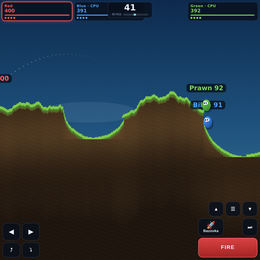
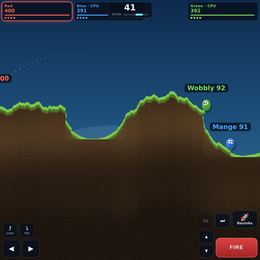
Worms: fix weapon overlay dismissing itself, rework the mobile deck
Three UI faults reported from real play.

The weapon overlay shut the instant it opened. It was opened on pointerdown,
which put a full-screen overlay under the finger, so the click that ended the
same tap landed on its backdrop and the dismiss handler fired. Opens on click
now, and backdrop dismissals and cell selections both ignore anything arriving
within 350ms of the open, so no single tap can open and close it.

The ninja rope could not be let go of. The mechanism was never broken — the
jump button released it all along — but nothing on screen said so: the button
reads "jump", and the tip that mentioned it faded after two seconds. While a
rope, jet pack or parachute is flying the worm, the deck now changes to match:
the jump key is relabelled "let go" and highlighted, and a strip above the
buttons spells out what the arrows do (and the jet pack's remaining fuel).
The strip is anchored to the top edge of the button row rather than to a pixel
offset, so it cannot land on the buttons and showing it does not nudge them.

The mobile layout put the aim keys top-right, far from any thumb and grouped
with the menu and skip keys, which are discrete controls rather than continuous
ones. The deck is now two clusters: everything continuous sits on the bottom
row where thumbs rest (walk bottom-left, aim immediately beside FIRE), and
everything discrete sits on the row above. Jump and backflip carry text labels.
[…]

diff --git a/games/worms.html b/games/worms.html
@@ -55,7 +55,7 @@
             touch-action: none
         }
 
-        .hidden {
+        .hidden, [hidden] {
             display: none !important
         }
 
@@ -233,14 +233,38 @@
             bottom: 0;
             padding: 0 calc(8px + var(--safeL)) calc(8px + var(--safeB)) calc(8px + var(--safeR));
             display: flex;
-            align-items: flex-end;
-            justify-content: space-between;
-            gap: 10px;
+            flex-direction: column;
+            align-items: center;
+            gap: 7px;
             z-index: 21;
             pointer-events: none
         }
 
-        #deck > * {
+        #deckRow {
+            position: relative;
+            width: 100%;
+            display: flex;
+            align-items: flex-end;
+            justify-content: space-between;
+            gap: 10px
+        }
+
+        /* Anchored to the top edge of the button row rather than to a pixel
+           offset from the screen bottom: the strip can then never land on the
+           buttons, and showing it never nudges them. */
+        #deckTop {
+            position: absolute;
+            bottom: calc(100% + 7px);
+            left: 0;
+            right: 0;
+            display: flex;
+            flex-direction: column;
+            align-items: center;
+            gap: 6px;
+            pointer-events: none
+        }
+
+        #deckRow .pad {
             pointer-events: auto
         }
 
@@ -282,18 +306,60 @@
             pointer-events: none
         }
 
-        #movePad {
-            grid-template-columns: repeat(2, auto)
+        /* Two thumb clusters. Everything continuous (walk, aim) sits on the
+           bottom row where the thumbs actually rest; everything discrete
+           (weapon, fuse, skip) sits on the row above, out of the way. */
+        .prow {
+            display: flex;
+            gap: 6px;
+            align-items: flex-end
         }
 
-        #actPad {
-            grid-template-columns: repeat(3, auto);
-            justify-items: end
+        #actPad .prow {
+            justify-content: flex-end
+        }
+
+        .aimcol {
+            display: flex;
+            flex-direction: column;
+            gap: 4px
+        }
+
+        .aimcol .btn {
+            min-height: 40px
+        }
+
+        .btn > u {
+            display: block;
+            text-decoration: none;
+            font-size: 8.5px;
+            letter-spacing: .6px;
+            color: var(--dim);
+            margin-top: 1px
+        }
+
+        .btn > i {
+            font-style: normal;
+            line-height: 1
+        }
+
+        #bJump, #bFlip {
+            flex-direction: column;
+            min-height: 46px
+        }
+
+        /* while roped / flying, the jump key becomes the release */
+        #bJump.letgo {
+            background: rgba(255, 209, 102, .28);
+            border-color: #ffd166
+        }
+
+        #bJump.letgo > u {
+            color: #ffd166
         }
 
         #fire {
-            grid-column: span 3;
-            width: 100%;
+            min-width: 128px;
             min-height: 60px;
             font-size: 16px;
             letter-spacing: 1.5px;
@@ -462,11 +528,30 @@
             margin-top: 6px
         }
 
+        #modeBar {
+            display: flex;
+            gap: 10px;
+            align-items: center;
+            background: rgba(9, 16, 28, .9);
+            border: 1px solid #ffd166;
+            border-radius: 20px;
+            padding: 6px 14px;
+            font-size: 11.5px;
+            font-weight: 600;
+            color: #ffd166;
+            backdrop-filter: blur(6px);
+            pointer-events: none;
+            white-space: nowrap;
+            max-width: 94vw;
+            overflow: hidden
+        }
+
+        #modeBar span {
+            color: var(--dim);
+            font-weight: 500
+        }
+
         #hint {
-            position: fixed;
-            left: 50%;
-            transform: translateX(-50%);
-            bottom: calc(150px + var(--safeB));
             font-size: 12px;
             color: var(--dim);
             background: var(--panel);
@@ -714,20 +799,35 @@
 </div>
 
 <div id="deck" class="hidden">
+    <div id="deckRow">
+        <div id="deckTop">
+            <div id="hint"></div>
+            <div id="modeBar" class="hidden"></div>
+        </div>
     <div class="pad" id="movePad">
-        <button class="btn" id="bLeft" aria-label="Walk left">◀</button>
-        <button class="btn" id="bRight" aria-label="Walk right">▶</button>
-        <button class="btn sm" id="bJump" aria-label="Jump">⤴</button>
-        <button class="btn sm" id="bFlip" aria-label="Backflip">⤵</button>
+        <div class="prow">
+            <button class="btn sm" id="bJump" aria-label="Jump"><i>⤴</i><u>jump</u></button>
+            <button class="btn sm" id="bFlip" aria-label="Backflip"><i>⤵</i><u>flip</u></button>
+        </div>
+        <div class="prow">
+            <button class="btn" id="bLeft" aria-label="Walk left">◀</button>
+            <button class="btn" id="bRight" aria-label="Walk right">▶</button>
+        </div>
     </div>
     <div class="pad" id="actPad">
-        <button class="btn sm" id="bUp" aria-label="Aim up">▲</button>
-        <button class="btn sm" id="bWpn" aria-label="Weapons">☰</button>
-        <button class="btn sm" id="bDown" aria-label="Aim down">▼</button>
-        <button class="btn" id="wpnBtn"><i>🚀</i><span id="wpnName">Bazooka</span></button>
-        <button class="btn sm" id="bFuse" aria-label="Fuse timer">1s</button>
-        <button class="btn sm" id="bSkip" aria-label="Skip turn">⏭</button>
-        <button class="btn" id="fire">FIRE</button>
+        <div class="prow">
+            <button class="btn sm" id="bFuse" aria-label="Fuse timer">3s</button>
+            <button class="btn sm" id="bSkip" aria-label="Skip turn">⏭</button>
+            <button class="btn" id="wpnBtn"><i>🚀</i><span id="wpnName">Bazooka</span></button>
+        </div>
+        <div class="prow">
+            <div class="aimcol">
+                <button class="btn sm" id="bUp" aria-label="Aim up">▲</button>
+                <button class="btn sm" id="bDown" aria-label="Aim down">▼</button>
+            </div>
+            <button class="btn" id="fire">FIRE</button>
+        </div>
+    </div>
     </div>
 </div>
 
@@ -735,7 +835,6 @@
     <div id="power"></div>
 </div>
 <div id="banner"></div>
-<div id="hint"></div>
 
 <div id="wpnGrid" class="hidden">
     <div class="inner">
@@ -786,6 +885,8 @@
             <kbd>Backspace</kbd> backflip<br>
             hold <kbd>Space</kbd> to charge, release to fire · <kbd>Tab</kbd> weapons ·
             <kbd>1</kbd>–<kbd>5</kbd> fuse<br>
+            on a rope, jet pack or parachute: <kbd>←</kbd> <kbd>→</kbd> <kbd>↑</kbd> <kbd>↓</kbd> fly,
+            <kbd>Enter</kbd> lets go<br>
             drag the map to look around · pinch or <kbd>+</kbd>/<kbd>−</kbd> to zoom
         </div>
     </div>
@@ -3253,14 +3354,10 @@
         e.preventDefault();
         pressJump('flip');
     });
-    $('bWpn').addEventListener('pointerdown', e => {
-        e.preventDefault();
-        toggleGrid();
-    });
-    $('wpnBtn').addEventListener('pointerdown', e => {
-        e.preventDefault();
-        toggleGrid();
-    });
+    // Opening on pointerdown put the full-screen overlay under the finger, so
+    // the click that ended the same tap landed on its backdrop and shut it
+    // again. Open on click, and ignore backdrop dismissals for a moment after.
+    $('wpnBtn').addEventListener('click', toggleGrid);
     $('bSkip').addEventListener('pointerdown', e => {
         e.preventDefault();
         if (humanTurn()) endTurn();
@@ -3372,14 +3469,57 @@
         b.style.background = Math.abs(wind) > .6 ? '#ff9f6b' : '#6ee7ff';
     }
 
+    /* While a utility is flying the worm, the deck stops describing a worm
+       that is standing on the ground: the jump key becomes the release, and a
+       strip spells out what the arrows do. The rope always released on jump —
+       nothing on screen ever said so. */
+    let modeBarKey = '';
+
+    function syncModeBar() {
+        const bar = $('modeBar'), jb = $('bJump');
+        const st = active && active.alive ? active.state : 'stand';
+        const flying = st === 'rope' || st === 'jet' || st === 'chute';
+        const label = {
+            rope: '🪢 ROPE <span>◀ ▶ swing · ▲ ▼ reel</span>',
+            jet: '🎒 JET PACK <span>◀ ▶ ▲ ▼ thrust</span>',
+            chute: '🪂 PARACHUTE <span>◀ ▶ steer</span>'
+        }[st];
+        const on = flying && (phase === 'aim' || phase === 'fired') && teams[cur] && !teams[cur].cpu;
+        let html = '';
+        if (on) {
+            html = st === 'jet'
+                ? '🎒 JET PACK ' + Math.round(active.jetFuel / WBY.jetpack.fuel * 100) +
+                  '% <span>◀ ▶ ▲ ▼ thrust</span> · <b>⤴ LET GO</b>'
+                : label + ' · <b>⤴ LET GO</b>';
+        }
+        const key = on ? html : '';
+        if (key === modeBarKey) return;
+        modeBarKey = key;
+        if (on) {
+            bar.innerHTML = html;
+            bar.classList.remove('hidden');
+            $('hint').classList.remove('show');
+            hintT = 0;
+            jb.classList.add('letgo');
+            jb.querySelector('i').textContent = '✋';
+            jb.querySelector('u').textContent = 'let go';
+        } else {
+            bar.classList.add('hidden');
+            jb.classList.remove('letgo');
+            jb.querySelector('i').textContent = '⤴';
+            jb.querySelector('u').textContent = 'jump';
+        }
+    }
+
     function syncWeaponBtn() {
         const wp = curWeapon();
         $('wpnBtn').querySelector('i').textContent = wp.icon;
         $('wpnName').textContent = wp.name;
-        const showFuse = !!wp.fuse;
-        $('bFuse').style.visibility = showFuse ? 'visible' : 'hidden';
+        $('bFuse').disabled = !wp.fuse;
         if (teams[cur]) $('bFuse').textContent = teams[cur].fuse + 's';
     }
+
+    let gridOpenedAt = 0;
 
     function toggleGrid() {
         if (!humanTurn()) return;
@@ -3387,6 +3527,7 @@
         if (g.classList.contains('hidden')) {
             renderWeaponGrid();
             g.classList.remove('hidden');
+            gridOpenedAt = performance.now();
         } else g.classList.add('hidden');
     }
 
@@ -3402,6 +3543,7 @@
             cell.innerHTML = '<em>' + wp.icon + '</em><span>' + wp.name + '</span>' +
                 (n === -1 ? '' : '<b>' + n + '</b>');
             cell.addEventListener('click', () => {
+                if (performance.now() - gridOpenedAt < 350) return;
                 t.weapon = wp.id;
                 shotsLeft = wp.shots || 0;
                 aimTarget = null;
@@ -3414,12 +3556,15 @@
     }
 
     $('wpnGrid').addEventListener('click', e => {
-        if (e.target.id === 'wpnGrid') $('wpnGrid').classList.add('hidden');
+        if (e.target.id !== 'wpnGrid') return;
+        if (performance.now() - gridOpenedAt < 350) return;   // same tap that opened it
+        $('wpnGrid').classList.add('hidden');
     });
 
     let hintT = 0;
 
     function flash(msg) {
+        if (!$('modeBar').classList.contains('hidden')) return;  // the strip already says it
         const el = $('hint');
         el.textContent = msg;
         el.classList.add('show');
@@ -3709,6 +3854,7 @@
         if (frame % 6 === 0) {
             renderClock();
             renderHUD();
+            syncModeBar();
         }
         if (hintT > 0 && --hintT === 0) $('hint').classList.remove('show');
         if (bannerT > 0 && --bannerT === 0) $('banner').classList.remove('show');
